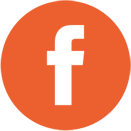
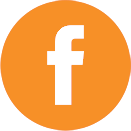
orange change

diff --git a/graduate-program.html b/graduate-program.html
@@ -101,8 +101,8 @@
         <div class="span10">
           <br />
           <h1>The Graduate Program</h1>
-          <h2>Are you in or are you out? <span style="color: #ec602f;">Let's build something BIG together.</span>  We're looking for developers, designers, and entrepreneurs who are ready to take an idea from concept to deployment. In this fast-paced, 8-week program you'll ride the startup roller coaster, and work hard as a team to execute and show-off your very own MVP (minimum viable product).</h2>
-          <h3 style="color: #ec602f;">Next class starts November 6th in Charlotte!</h3>
+          <h2>Are you in or are you out? <span style="color: #f79027;">Let's build something BIG together.</span>  We're looking for developers, designers, and entrepreneurs who are ready to take an idea from concept to deployment. In this fast-paced, 8-week program you'll ride the startup roller coaster, and work hard as a team to execute and show-off your very own MVP (minimum viable product).</h2>
+          <h3 style="color: #f79027;">Next class starts November 6th in Charlotte!</h3>
 
           <div class="row" style="margin-right: auto; margin-left: auto;"><br />
             
@@ -162,7 +162,7 @@
             <hr>
 
             <center>
-            <h3 style="color: #ec602f;">Class Details:</h3>
+            <h3 style="color: #f79027;">Class Details:</h3>
             <h4><strong>Location:</strong> @809 - 809 W Hill St | Charlotte, NC 28208<br>
             <strong>Dates:</strong> 11/6/14 - 1/15/15 and Demo Day on 1/22/15 <br>
             <strong>Time:</strong> Thursdays from 6pm to 9pm <br>
@@ -180,7 +180,7 @@
 
           <div>
             <h2>About The Instructor:</h2>
-            <h3 style="color: #ec602f;">Jim Van Fleet</h3>
+            <h3 style="color: #f79027;">Jim Van Fleet</h3>
             <h4>
               Tech Talent South is fortunate to have a huge leader of the software development community in Charlotte as the instructor for The Graduate Program. Jim Van Fleet is President and founder of <a href="http://www.itsbspoke.com/">it's bspoke</a>, a local and respected boutique software consultancy in Uptown Charlotte. Jim also curates a <a href="http://itsbspoke.us2.list-manage.com/subscribe?u=8b4656bd4a093a3bcabfda08a&id=564f168838">monthly startup newsletter</a> which has become a staple in the Charlotte startup community. In addition to programming computers professionally for over 15 years, Jim also serves as Brigade Captain for the exciting new <a href="http://www.codeforcharlotte.org/">Code for Charlotte chapter</a>.Other accolades include being a finalist for Charlotte Business Journal's CTO of the Year in the Emerging Leader Category and raising a $1 million Series A VC round with OtherScreen. 
             </h4>    

diff --git a/assets/css/main.css b/assets/css/main.css
@@ -38,7 +38,7 @@ h1 small,h2 small,h3 small,h4 small,h5 small,h6 small{margin-left:12px;font-size
 /********** BOOTSTRAP MODIFICATIONS **********/
 /* Navbar Tweaks */
 .navbar-inverse .navbar-inner {
-    background-color: #ec602f;
+    background-color: #f79027;
     background-repeat: repeat-x;
 	border-color: transparent;
 	background-image: none;
@@ -235,7 +235,7 @@ hr {
 #servicewrap h2 {
 	text-align:left;
 	margin-left:5px;
-	border-left:10px #ec602f solid;
+	border-left:10px #f79027 solid;
 	padding-left:3px;
 }
 
@@ -262,7 +262,7 @@ hr {
 #aboutwrap h2 {
 	text-align:left;
 	margin-left:5px;
-	border-left:10px #ec602f solid;
+	border-left:10px #f79027 solid;
 	padding-left:3px;
 }
 
@@ -270,7 +270,7 @@ hr {
 	font-family: 'Open Sans Condensed', sans serif;
 	font-weight:400;
 	font-size:30px;
-	color:#ec602f;
+	color:#f79027;
 }
 
 #aboutwrap h4 {
@@ -301,9 +301,9 @@ hr {
 	margin-top:150px;
 	clear: both;
 	opacity: 1;
-	background: #ec602f;
-	background: rgb(225,112,75);
-	background: rgba(225,112,75, 0.95);
+	background: #f79027;
+	background: rgb(247, 144, 39);
+	background: rgba(247, 144, 39, 0.95);
 }
 
 #projectwrap h1 {
@@ -318,7 +318,7 @@ hr {
 #projectwrap_2 h2 {
 	text-align:left;
 	margin-left:5px;
-	border-left:10px #ec602f solid;
+	border-left:10px #f79027 solid;
 	padding-left:3px;
 }
 
@@ -326,7 +326,7 @@ hr {
 	font-family: 'Open Sans Condensed', sans serif;
 	font-weight:400;
 	font-size:30px;
-	color:#ec602f;
+	color:#f79027;
 	text-align:center;
 }
 
@@ -351,7 +351,7 @@ hr {
 #footerwrap h2 {
 	text-align:left;
 	margin-left:5px;
-	border-left:10px #ec602f solid;
+	border-left:10px #f79027 solid;
 	padding-left:3px;
 	margin-bottom:40px;
 	color:#fff;
@@ -361,7 +361,7 @@ hr {
 	font-family: 'Open Sans Condensed', sans serif;
 	font-weight:400;
 	font-size:30px;
-	color:#ec602f;
+	color:#f79027;
 	text-align:center;
     margin:5px;
 }
@@ -520,7 +520,7 @@ hr {
 }
 
 .pricing-column:hover > .pricing-title {
-    border-top: 3px solid rgba(236,96,47,0.9);
+    border-top: 3px solid rgba(247, 144, 39, 0.9);
 }
 
 .pricing-column:hover > .pricing-button {
@@ -546,7 +546,7 @@ hr {
 }
 
 .pricing-column li.pricing-price {
-	color:#ec602f;
+	color:#f79027;
 	font-size: 200%;
 	line-height: 120%;
 }
@@ -629,7 +629,7 @@ footer {
 }
 
 #drop li:hover a { 
-	background: #ec602f !important; 
+	background: #f79027 !important; 
 	color: #232121 !important;
 }
 
@@ -644,7 +644,7 @@ footer {
 
 .apply-button {
 	text-align: center;
-	background-color: #ec602f;
+	background-color: #f79027;
 	font-family: 'Open Sans Condensed', sans-serif;
 	font-weight: normal;
 	clear: both;
@@ -666,7 +666,7 @@ footer {
 }
 
 .orange {
-	color: #ec602f;
+	color: #f79027;
 }
 
 .navbar-inverse .nav li.dropdown > .dropdown-toggle .caret {

diff --git a/web-design-and-creation.html b/web-design-and-creation.html
@@ -101,7 +101,7 @@
           <br />
           <h1>Introduction to Website Design & Creation</h1>
           <h2>Ever dreamed of designing and launching your very own website? Or building out a nice portfolio featuring your work? How about a site all about you highlighting your experience and personal brand? We'll let you in on a little secret. It's easier than you think!</h2>
-          <h3 style="color: #ec602f;">Next class starts October 21st in Atlanta!</h3>
+          <h3 style="color: #f79027;">Next class starts October 21st in Atlanta!</h3>
           <center>
 
             <div id="myCarousel2" class="carousel slide">
@@ -190,7 +190,7 @@
             <hr>
 
             <center>  
-            <h3 style="color: #ec602f;">Class Details:</h3>
+            <h3 style="color: #f79027;">Class Details:</h3>
             <h4><strong>Location:</strong> ATDC - 75 5th Street NW, Suite 200  |  Atlanta, GA 30308<br>
             <strong>Dates:</strong> 10/21/14 - 12/9/14 <br>
             <strong>Time:</strong> Tuesdays from 6pm to 9pm <br>
@@ -207,7 +207,7 @@
 
           <div>
             <h2>About The Instructor:</h2>
-            <h3 style="color: #ec602f;">Joanna Bennett</h3>
+            <h3 style="color: #f79027;">Joanna Bennett</h3>
             <div>
             <img src="assets/img/front-end/joanna-1.jpg" style="border-radius: 50%; display: inline-block; float: right;" />
                 <h4>Joanna was born and raised in Ontario, Canada. Growing up painting and playing piano, she developed a love for things both artistic and technical. Naturally, when she discovered the world of web design she found her passion and has enjoyed coding HTML and CSS ever since. She completed her Bachelor degree in Multimedia & Communication Studies at McMaster University. After graduating, she moved to Virginia and worked as a Multimedia Developer at the University of Virginia Darden School of Business designing award-winning interactive learning material. Joanna moved to Atlanta in 2008 where she earned her MFA in Interactive Design & Game Development from SCAD while also teaching Graphic & Web Design full-time at The Art Institute of Atlanta. Joanna absolutely loves sharing her passion for web design with others. When she’s not teaching, she’s learning. Otherwise, she’s out hiking, biking, enjoying vegetarian cuisine around town, or being her usual left-handed, Ukrainian-speaking, Canadian self.</h4>

diff --git a/online-marketing-bootcamp.html b/online-marketing-bootcamp.html
@@ -100,7 +100,7 @@
       <div class="span2"></div>
         <div class="span8">
           <br />
-          <h2 style="color: #ec602f;">Tech Talent South and JB Media Group present:</h2>
+          <h2 style="color: #f79027;">Tech Talent South and JB Media Group present:</h2>
           <h1 >Online Marketing Boot Camp</h1>
           <br>
 
@@ -170,20 +170,20 @@
 
             <h3>Dates, Location, and Pricing</h3>
             
-            <h4 style="color: #ec602f;">Location</h4>
+            <h4 style="color: #f79027;">Location</h4>
             <h4>Both courses will be taking place at ATDC in Atlanta:
             <br>75 5th St NW
             <br>Atlanta, GA 30308</h4>
             <br>
            
-            <h4 style="color: #ec602f;">Two Day SEO / Internet Marketing Bootcamp</h4>
+            <h4 style="color: #f79027;">Two Day SEO / Internet Marketing Bootcamp</h4>
             <h4>Next classes coming soon to Atlanta!
             <br>9:00 am - 2:00 pm
             <br>$499.00 per student
             <br>$399.00 per student for Tech Talent South Alumni. Save $100!</h4>
             <h3><a href="javascript:void( window.open('http://form.jotformpro.com/form/42474553206958', 'blank','scrollbars=yes,toolbar=no,width=700,height=500'))">Sign Up Here For Updates!</a></h3>
             <br>
-            <h4 style="color: #ec602f;">Two Hour SEO / Internet Marketing Course</h4>
+            <h4 style="color: #f79027;">Two Hour SEO / Internet Marketing Course</h4>
             <h4>Next class coming soon to Atlanta!
             <br>3:00 pm - 5:00 pm
             <br>$79.00 per student</h4>

diff --git a/assets/css/mailchimp.css b/assets/css/mailchimp.css
@@ -13,7 +13,7 @@
 }
 
 #mc_embed_signup .button {
-	background-color: #ec602f;
+	background-color: #f79027;
 	font-family: 'Open Sans Condensed', sans-serif;
 	font-weight:normal;
 }
